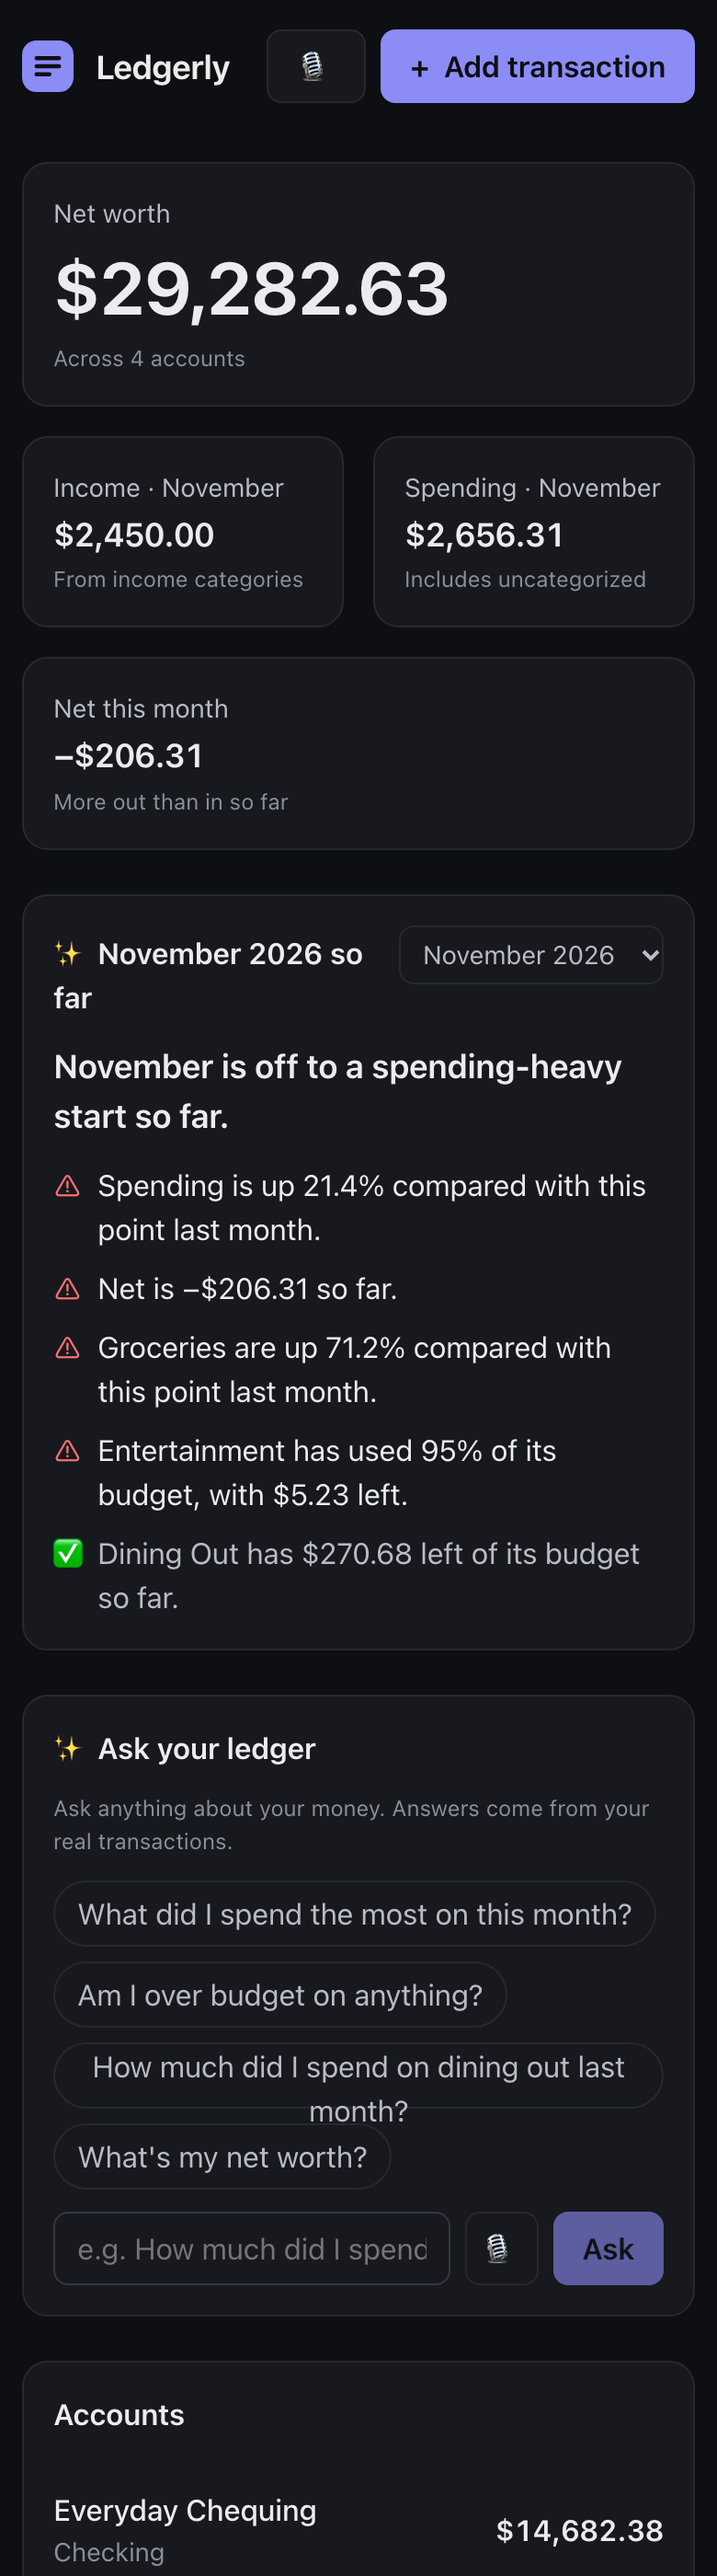
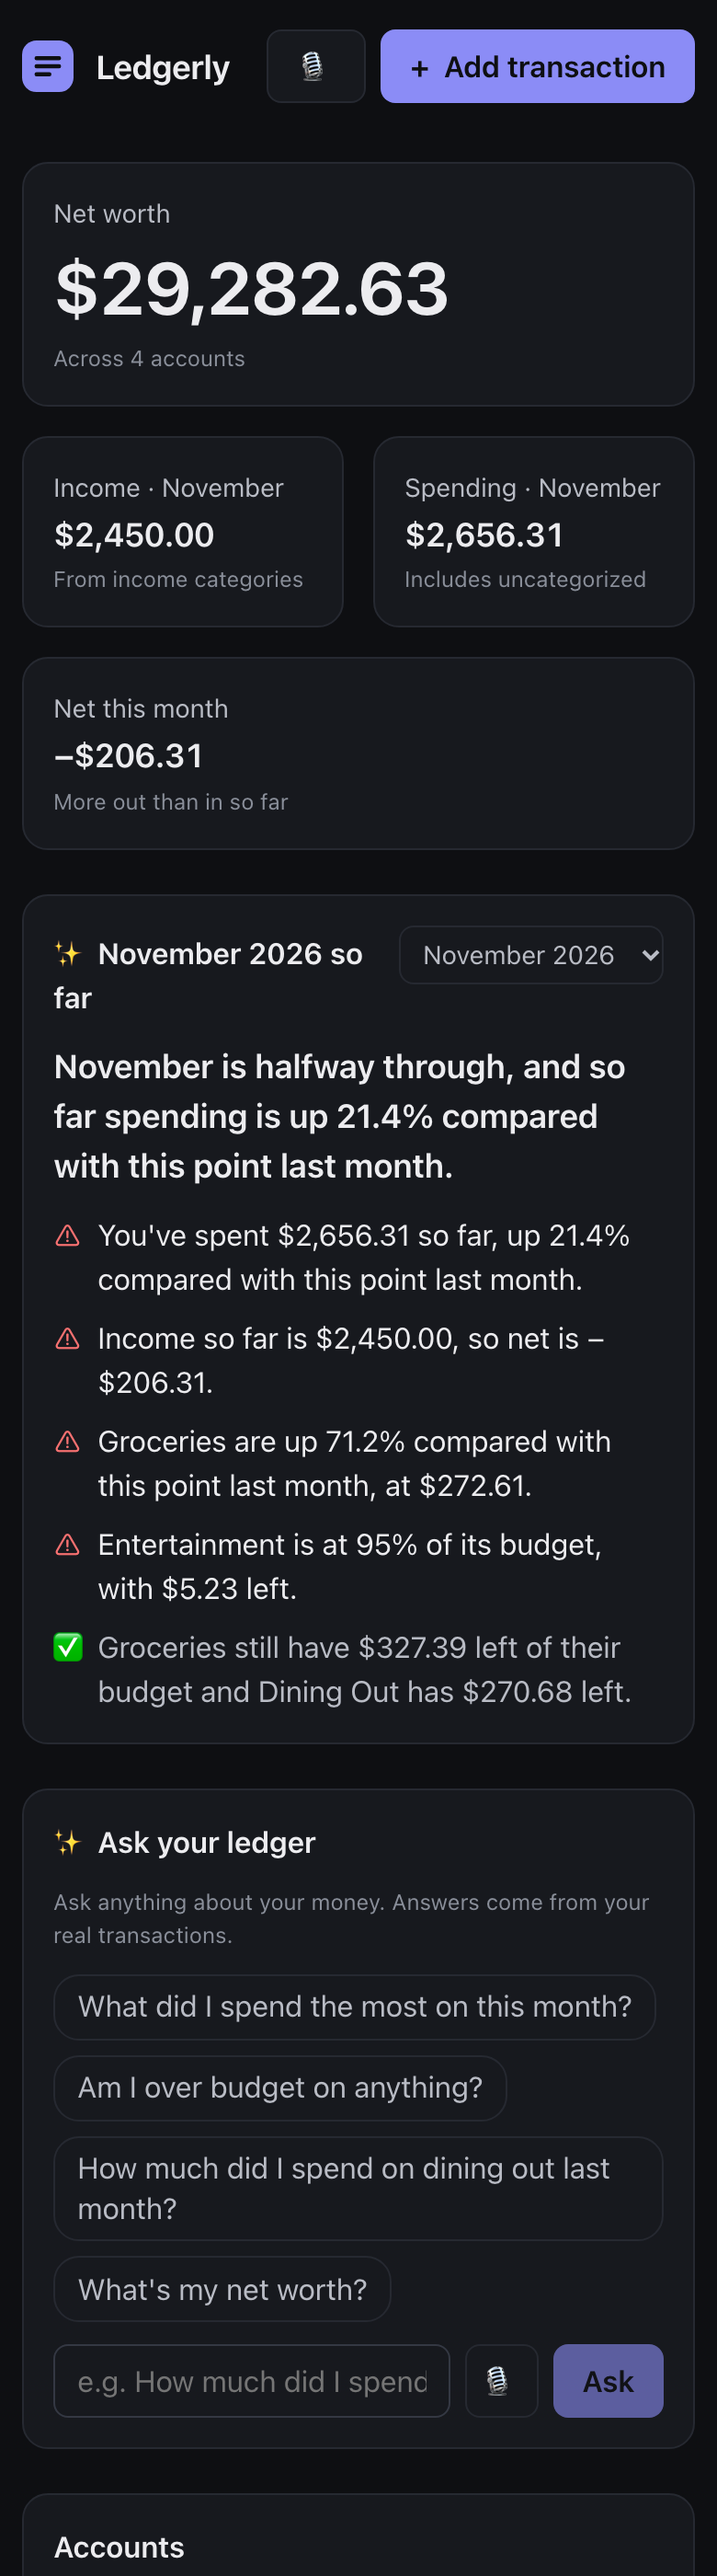
Let Ask example chips wrap cleanly on phones
The chip's fixed 36px height made a two-line question spill over its
border. Example chips now grow (min-height), and on phones use a
rounded rectangle with left-aligned text. Desktop is unchanged.
Retook the phone README screenshot.

diff --git a/client/src/App.css b/client/src/App.css
@@ -872,6 +872,24 @@
   gap: var(--space-2);
 }
 
+/* A long question may need two lines (on phones): grow instead of
+   overflowing the fixed chip height. One-line chips look the same. */
+.ask-examples .chip {
+  height: auto;
+  min-height: 36px;
+  padding-block: 6px;
+  line-height: 1.35;
+}
+
+/* On phones a two-line pill looks like a lozenge; a rounded rectangle
+   with left-aligned text reads better. */
+@media (max-width: 520px) {
+  .ask-examples .chip {
+    border-radius: var(--radius);
+    text-align: left;
+  }
+}
+
 /* The conversation scrolls inside the card, so it never takes over the page. */
 .ask-turns {
   display: grid;
